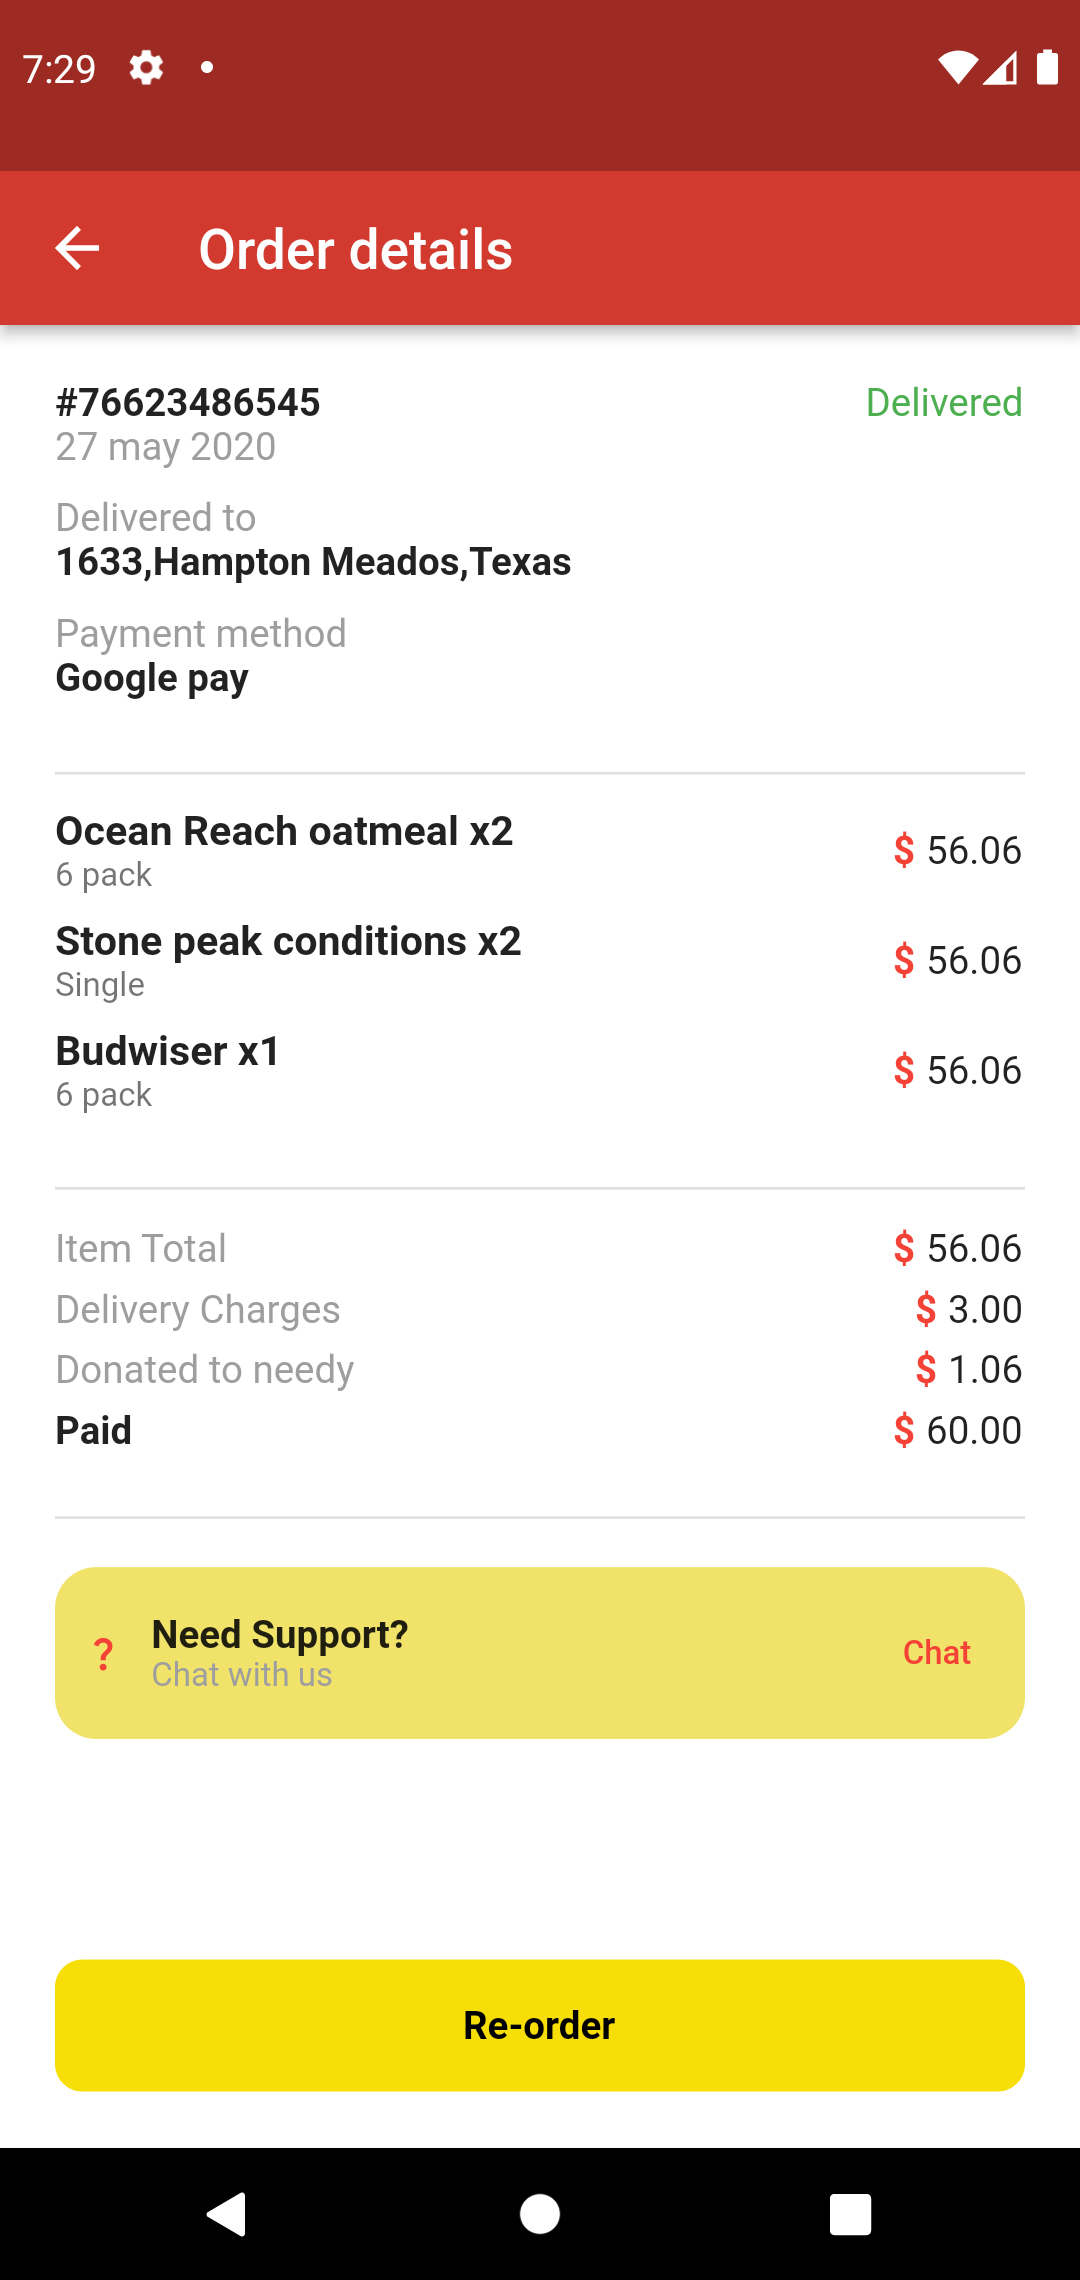
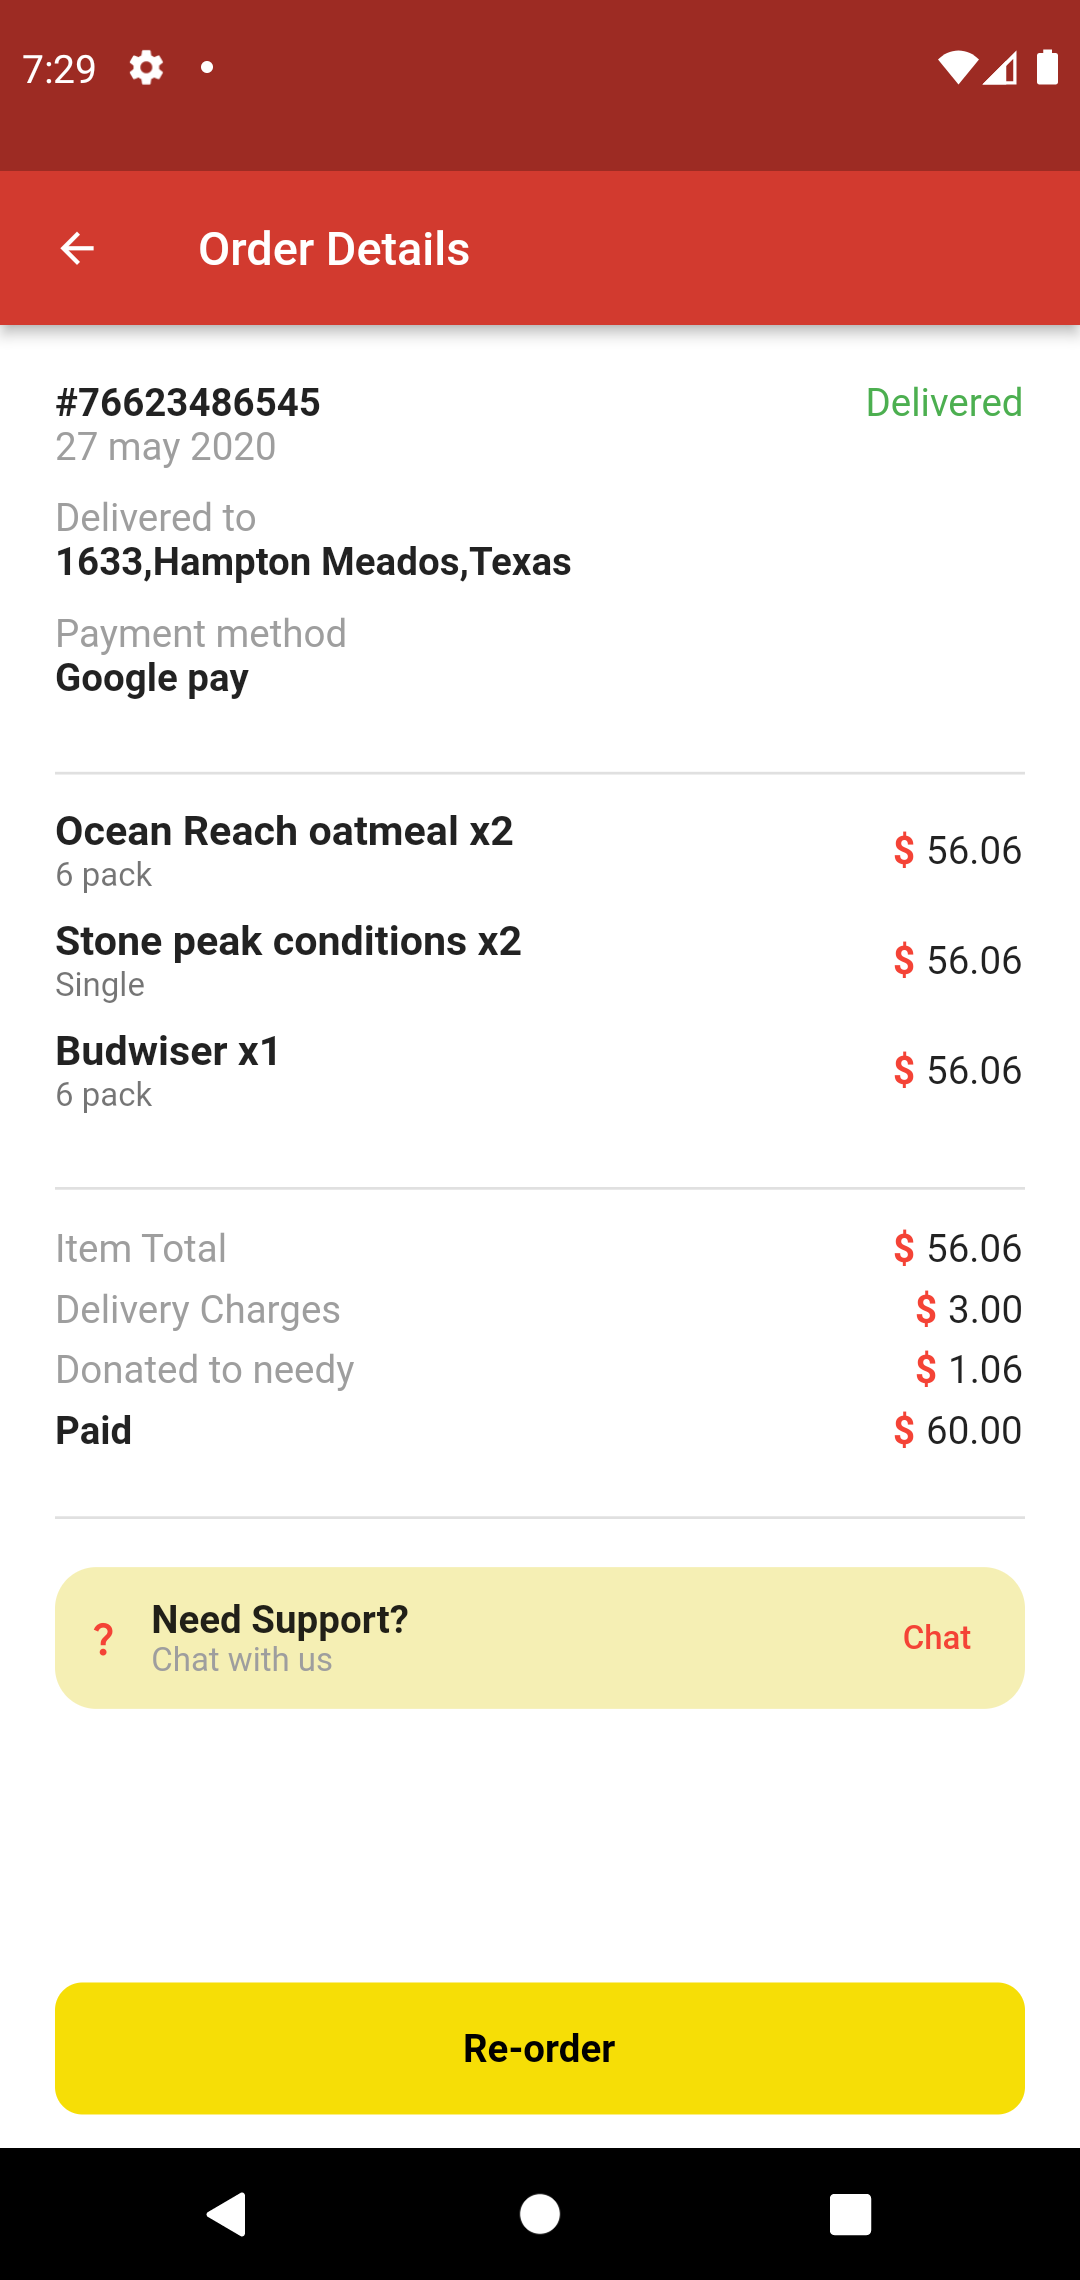
screenshot added

diff --git a/lib/ui/order page ui/order_page.dart b/lib/ui/order page ui/order_page.dart
@@ -13,8 +13,12 @@ class OrderPage extends StatelessWidget {
         leading: const Icon(
           Icons.arrow_back,
           color: Colors.white,
+          size: 18,
         ),
-        title: const Text('Order details'),
+        title: const Text(
+          'Order Details',
+          style: TextStyle(fontSize: 17),
+        ),
       ),
       body: SingleChildScrollView(
         child: Container(
@@ -46,7 +50,7 @@ class OrderPage extends StatelessWidget {
               const NeedSupport(),
               Container(
                 margin: EdgeInsets.only(
-                    top: MediaQuery.of(context).padding.top * 1.29),
+                    top: MediaQuery.of(context).padding.top * 1.6),
                 width: MediaQuery.of(context).size.width * 0.9,
                 decoration: BoxDecoration(
                     color: Color.fromARGB(255, 246, 222, 6),
@@ -77,9 +81,9 @@ class NeedSupport extends StatelessWidget {
     return Container(
       padding: const EdgeInsets.only(left: 10, top: 10, bottom: 10),
       decoration: const BoxDecoration(
-          color: Color.fromARGB(255, 241, 227, 106),
+          color: Color.fromARGB(255, 245, 239, 180),
           borderRadius: BorderRadius.all(Radius.circular(15))),
-      height: MediaQuery.of(context).size.height * 0.080,
+      height: MediaQuery.of(context).size.height * 0.066,
       child: Row(
         children: [
           const Icon(
